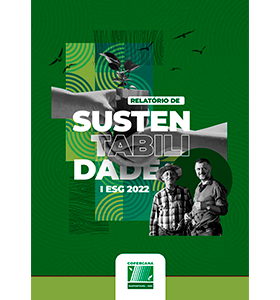
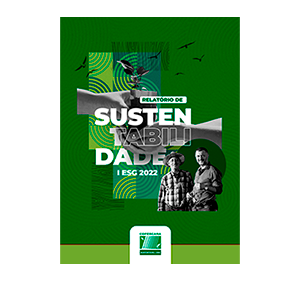
feat: added 2022 file

diff --git a/app/Views/sustentabilidade.php b/app/Views/sustentabilidade.php
@@ -39,40 +39,41 @@
         <?php } ?>
 
         <section class="page-section bg-light-gray" id="magazine-section">
-        <div class="container">
+            <div class="container">
                 <div class="row">
+                    <div class="col-12">
+                        <h2 class="with-underline" style="margin-left: 0;"><?= $page_data->report_section_title ?></h2>
+                        <div style="margin-bottom: 30px;">
+                        <?= $page_data->report_section_description ?>
+                        </div>
+                        <?php if(isset($page_data->report_section_file) && !empty($page_data->report_section_file)) { ?>
+                        <a class="button" href="<?= base_url($page_data->report_section_file) ?>" target="_blank" rel="noopener noreferrer">
+                            Baixar
+                        </a>
+                        <?php } ?>
+                    </div>
+                </div>
+                <div class="row" style="margin-bottom: 20px;">
                     <div class="col-md-4">
                         <picture>
-                            <img id="magazine" src="<?= base_url("_assets/images/capa-sustentabilidade-2022.png") ?>" alt="Relatório de Sustentabilidade 2022" />
+                            <img id="magazine" src="<?= base_url("_assets/images/capa-sustentabilidade-2022.png") ?>?v=01" alt="Relatório de sustentabilidade 2022" />
                         </picture>
                     </div>
-                    <div class="col-md-8">
-                        <h2 class="with-underline" style="margin-left: 0;">Relatório de Sustentabilidade 2022</h2>
-                        <div style="margin-bottom: 30px;">
-                        <p>
-                        Confira aqui, em nosso Relatório de Sustentabilidade, as ações adotadas pela Copercana em 2022, destacando-se em desempenho financeiro, social, ambiental e de governança.
-                        </p>
-                        </div>
+                    <div class="col-md-8 d-flex flex-column justify-content-center">
+                        <h3 style="color: #003406; font-weight: 900;">Relatório de sustentabilidade 2022</h3>
                         <a class="button" href="<?= base_url("files/relatorio-sustentabilidade-2022.pdf") ?>" target="_blank" rel="noopener noreferrer">
                             Baixar
                         </a>
                     </div>
                 </div>
-            </div>
-            <div class="container">
-                <div class="row">
+                <div class="row" style="margin-bottom: 20px;">
                     <div class="col-md-4">
                         <picture>
-                            <img id="magazine" src="<?= base_url("_assets/images/capa-sustentabilidade-2021.png") ?>" alt="Relatório de Sustentabilidade 2021" />
+                            <img id="magazine" src="<?= base_url("_assets/images/capa-sustentabilidade-2021.png") ?>?v=01" alt="Relatório de sustentabilidade 2021" />
                         </picture>
                     </div>
-                    <div class="col-md-8">
-                        <h2 class="with-underline" style="margin-left: 0;">Relatório de Sustentabilidade 2021</h2>
-                        <div style="margin-bottom: 30px;">
-                        <p>
-                        Confira aqui, em nosso Relatório de Sustentabilidade, as ações adotadas pela Copercana em 2021, destacando-se em desempenho financeiro, social, ambiental e de governança.
-                        </p>
-                        </div>
+                    <div class="col-md-8 d-flex flex-column justify-content-center">
+                        <h3 style="color: #003406; font-weight: 900;">Relatório de sustentabilidade 2021</h3>
                         <a class="button" href="<?= base_url("files/relatorio-sustentabilidade-2021.pdf") ?>" target="_blank" rel="noopener noreferrer">
                             Baixar
                         </a>
